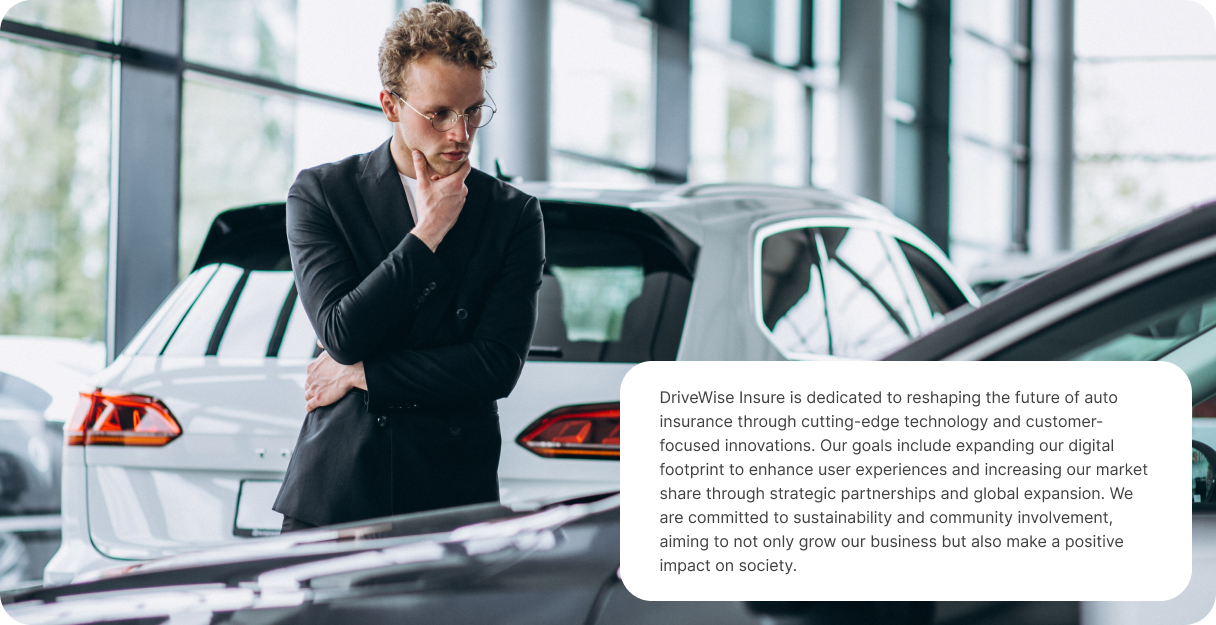
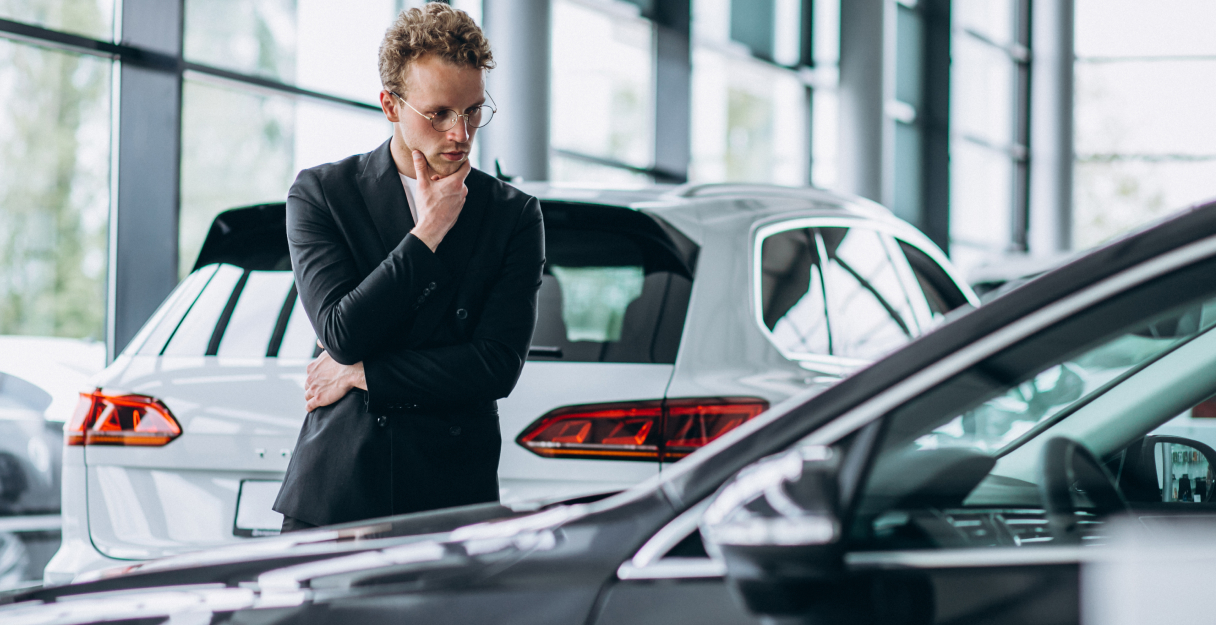
add about

diff --git a/src/scss/base/_base.scss b/src/scss/base/_base.scss
@@ -69,7 +69,7 @@ body {
 }
 
 .main {
-    padding-top: calc(var(--header-height) - 1px);
+  padding-top: calc(var(--header-height) - 1px);
 }
 
 .logo {
@@ -77,50 +77,10 @@ body {
   align-items: center;
   justify-content: center;
   width: 100%;
-  max-width: 292px;
-
-  @include media(tablet-wide) {
-    max-width: 220px;
-  }
+  max-width: 209px;
 }
 
-// .is-scrolling {
-//   scrollbar-color: var(--color-red-600) var(--color-white);
-//   scrollbar-width: thin;
-
-//   &::-webkit-scrollbar {
-//     width: 4px;
-//     height: 4px;
-//   }
-
-//   &::-webkit-scrollbar-track {
-//     -webkit-border-radius: 10px;
-//     border-radius: 10px;
-//     background-color: var(--color-white);
-//   }
-
-//   &::-webkit-scrollbar-thumb {
-//     -webkit-border-radius: 10px;
-//     border-radius: 10px;
-//     background-color: var(--color-red-600);
-//   }
-
-//   @include media(mobile-l) {
-//     padding: 15px;
-//   }
-// }
-
-// .overlay {
-//   position: relative;
-
-//   &::before {
-//     content: "";
-//     position: absolute;
-//     z-index: 1;
-//      background: linear-gradient(270deg, rgba(22, 17, 12, 0) 71.546%, rgb(22, 17, 12) 100%),
-//         linear-gradient(90deg, rgba(22, 17, 12, 0) 72.268%, rgb(22, 17, 12) 100%),
-//         linear-gradient(180deg, rgb(22, 17, 12), rgba(22, 17, 12, 0) 14.754%),
-//         linear-gradient(180deg, rgba(22, 17, 12, 0) 80.164%, rgb(22, 17, 12) 100%);
-//     inset: 0;
-//   }
-// }
+.image {
+  overflow: hidden;
+  border-radius: var(--radius-big);
+}

diff --git a/src/html/about/_hero.html b/src/html/about/_hero.html
@@ -1,4 +1,4 @@
-<section class="hero">
+<section class="hero section">
 
     <div class="hero__inner">
 
@@ -8,15 +8,14 @@
         </h1>
 
         <p>
-          Our Story Unfolds
-          At DriveWise Insure, we are dedicated to delivering exceptional auto insurance with a personal touch. Our
-          mission is to ensure every driver is protected with affordable, comprehensive coverage tailored to their
-          unique needs.
+         At DriveWise Insure, we are dedicated to delivering exceptional auto insurance with a personal touch. Our
+         mission is to ensure every driver is protected with affordable, comprehensive coverage tailored to their unique
+         needs.
         </p>
       </div>
 
       <div class="hero__image">
-        <img src="./images/home/about.jpg" alt=" image of couple" width="584" height="625" loading="lazy" />
+        <img src="./images/hero/about.jpg" alt="image of couple" width="584" height="625" loading="lazy" />
       </div>
 
     </div>

diff --git a/src/about.html b/src/about.html
@@ -1,0 +1,36 @@
+<!DOCTYPE html>
+<html lang="en" class="page">
+<include src="./html/_head.html" locals='{"title": "About"}'></include>
+
+<body class="page__body">
+  <div class="site-container">
+    <include src="./html/_header.html" locals='{"page": "about"}'></include>
+
+    <main class="main">
+
+      <div class="container">
+
+        <include src="./html/about/_hero.html"></include>
+
+        <include src="./html/about/_history.html"></include>
+
+        <include src="./html/about/_facts.html"></include>
+
+        <include src="./html/about/_missions.html"></include>
+
+        <include src="./html/about/_team.html"></include>
+
+        <include src="./html/_contacts.html"></include>
+
+        <include src="./html/about/_future.html"></include>
+
+      </div>
+
+    </main>
+
+    <include src="./html/_footer.html"></include>
+
+  </div>
+</body>
+
+</html>

diff --git a/src/scss/pages/about/_facts.scss b/src/scss/pages/about/_facts.scss
@@ -1,0 +1,43 @@
+@use "../../utils/functions/" as *;
+@use "../../utils/mixins/" as *;
+
+.facts {
+  &__inner {
+    display: flex;
+    gap: 32px;
+  }
+
+  &__list {
+    width: 100%;
+    max-width: 355px;
+  }
+
+  &__item {
+    position: relative;
+
+    &::after {
+      content: "";
+      position: absolute;
+      top: -50px;
+      height: 1px;
+      width: 100%;
+      background-color: var(--color-black);
+      opacity: 0.5;
+    }
+
+    &:not(:last-child) {
+      margin-bottom: 24px;
+    }
+  }
+
+  span {
+    font-size: clamp(2.8125rem, 0.5136rem + 10.8182vi, 10.25rem);
+    line-height: 1.21;
+  }
+
+  p {
+    font-size: 20px;
+    line-height: 1.2;
+    opacity: 1;
+  }
+}

diff --git a/src/html/_header.html b/src/html/_header.html
@@ -5,8 +5,7 @@
     <nav class="nav">
 
       <a class="logo" href="index.html">
-        <img class="logo__img" src="./images/logo.svg" alt="logo of Drive Wise Insure" width="292" height="32"
-          loading="lazy">
+        <img class="logo__img" src="./images/logo.svg" alt="logo of Drive Wise Insure" width="209" height="32" loading="lazy">
       </a>
 
       <button class="burger" aria-label="Mobile menu" type="button">
@@ -24,7 +23,7 @@
           </li>
 
           <li class="nav__item">
-            <a class="nav__link {{ page === 'about' }}" href="#">
+            <a class="nav__link {{ page === 'about' }}" href="about.html">
               About Us
             </a>
           </li>

diff --git a/src/scss/components/_service.scss b/src/scss/components/_service.scss
@@ -9,7 +9,7 @@
   }
 
   &__item {
-    counter-increment: choose-counter;
+    counter-increment: service-counter;
     position: relative;
     display: flex;
     flex-direction: column;
@@ -34,17 +34,22 @@
 
     &::after {
       margin-top: auto;
-      content: counter(choose-counter, decimal-leading-zero);
+      content: counter(service-counter, decimal-leading-zero);
       position: relative;
       align-self: end;
       right: 24px;
       font-weight: var(--fw-400);
-      font-size: 100px;
+      font-size: 95px;
       line-height: 1.2;
     }
   }
 
+  h2 {
+    margin-bottom: 33px;
+  }
+
   h3 {
+    margin-bottom: 24px;
     width: 100%;
     max-width: 185px;
   }

diff --git a/src/scss/components/_contacts.scss b/src/scss/components/_contacts.scss
@@ -10,6 +10,10 @@
 
     label {
       width: 100%;
+
+      & textarea {
+        margin-bottom: 25px;
+      }
     }
 
     input,
@@ -17,7 +21,7 @@
       position: relative;
       border: 2px solid rgba(18, 18, 18, 0.2);
       border-radius: calc(var(--radius-main) * 6);
-      padding: 24px 16px 24px 16px;
+      padding: 22px 16px;
       width: 100%;
       max-width: 100%;
       font-weight: var(--fw-600);
@@ -29,7 +33,7 @@
     }
 
     textarea {
-      margin-bottom: 32px;
+      padding: 16px;
       resize: none;
       height: 156px;
     }

diff --git a/src/scss/components/_hero.scss b/src/scss/components/_hero.scss
@@ -7,11 +7,12 @@
   &__inner {
     display: grid;
     grid-template-columns: repeat(2, 1fr);
+    gap: 48px;
   }
 
   &__content {
     width: 100%;
-    max-width: 495px;
+    max-width: 584px;
   }
 
   &__image {
@@ -21,13 +22,19 @@
 
   p {
     margin-bottom: 48px;
+    width: 100%;
+    max-width: 493px;
   }
 
 
 
-  &--tour {
+  &--home {
     #{$root}__content {
-      max-width: 720px;
+      max-width:  495px;
+
+      p {
+        max-width: 100%;
+      }
     }
   }
 

diff --git a/src/html/about/_facts.html b/src/html/about/_facts.html
@@ -2,7 +2,7 @@
 
   <div class="facts__inner">
 
-    <div class="facts__image">
+    <div class="facts__image image">
       <img src="./images/about/facts.jpg" alt=" image of red car" width="829" height="1026" loading="lazy" />
     </div>
 
@@ -32,7 +32,7 @@
 
       <li class="facts__item">
         <span>
-          24/7180
+          24/7
         </span>
 
         <p>
@@ -41,7 +41,7 @@
         </p>
       </li>
     </ul>
-    
+
   </div>
 
 </section>

diff --git a/src/scss/components/_history.scss b/src/scss/components/_history.scss
@@ -1,0 +1,20 @@
+@use "../utils/functions/" as *;
+@use "../utils/mixins/" as *;
+
+.history {
+  &__inner {
+    position: relative;
+  }
+
+  &__content {
+    position: absolute;
+    right: 24px;
+    bottom: 24px;
+    overflow: hidden;
+    border-radius: var(--radius-big);
+    padding: 24px;
+    width: 100%;
+    max-width: 572px;
+    background-color: var(--color-white);
+  }
+}

diff --git a/src/html/about/_history.html b/src/html/about/_history.html
@@ -1,8 +1,12 @@
 <section class="history section">
 
+  <h2>
+    History
+  </h2>
+
   <div class="history__inner">
 
-    <div class="history__image">
+    <div class="history__image image">
       <img src="./images/about/history.jpg" alt=" image of couple" width="1216" height="625" loading="lazy" />
     </div>
 

diff --git a/src/html/about/_team.html b/src/html/about/_team.html
@@ -25,7 +25,7 @@
     </li>
 
     <li class="team__item">
-      <img src="./images/about/team/jhon.jpg" alt="John Smith" width="342" height="309" loading="lazy" />
+      <img src="./images/about/team/john.jpg" alt="John Smith" width="342" height="309" loading="lazy" />
 
       <h3>
         John Smith
